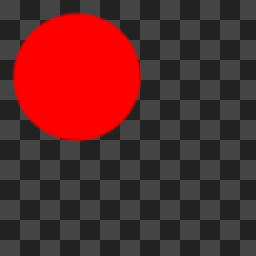
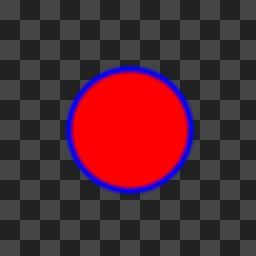
Improve the blur example

diff --git a/src/examples/enesim_renderer_blur01.c b/src/examples/enesim_renderer_blur01.c
@@ -12,11 +12,13 @@ static Enesim_Renderer * enesim_renderer_blur01(void)
 	r1 = enesim_renderer_circle_new();
 	enesim_renderer_circle_center_set(r1, 128, 128);
 	enesim_renderer_circle_radius_set(r1, 64);
+	enesim_renderer_shape_stroke_weight_set(r1, 5);
+	enesim_renderer_shape_stroke_color_set(r1, 0xff0000ff);
 	enesim_renderer_shape_fill_color_set(r1, 0xffff0000);
-	enesim_renderer_shape_draw_mode_set(r1, ENESIM_RENDERER_SHAPE_DRAW_MODE_FILL);
+	enesim_renderer_shape_draw_mode_set(r1, ENESIM_RENDERER_SHAPE_DRAW_MODE_STROKE_FILL);
 
 	r2 = enesim_renderer_blur_new();
-	enesim_renderer_origin_set(r2, 15, 15);
+	enesim_renderer_origin_set(r2, 68, 68);
 	enesim_renderer_blur_source_renderer_set(r2, r1);
 	enesim_renderer_blur_radius_x_set(r2, 4.5);
 	enesim_renderer_blur_radius_y_set(r2, 4.5);
